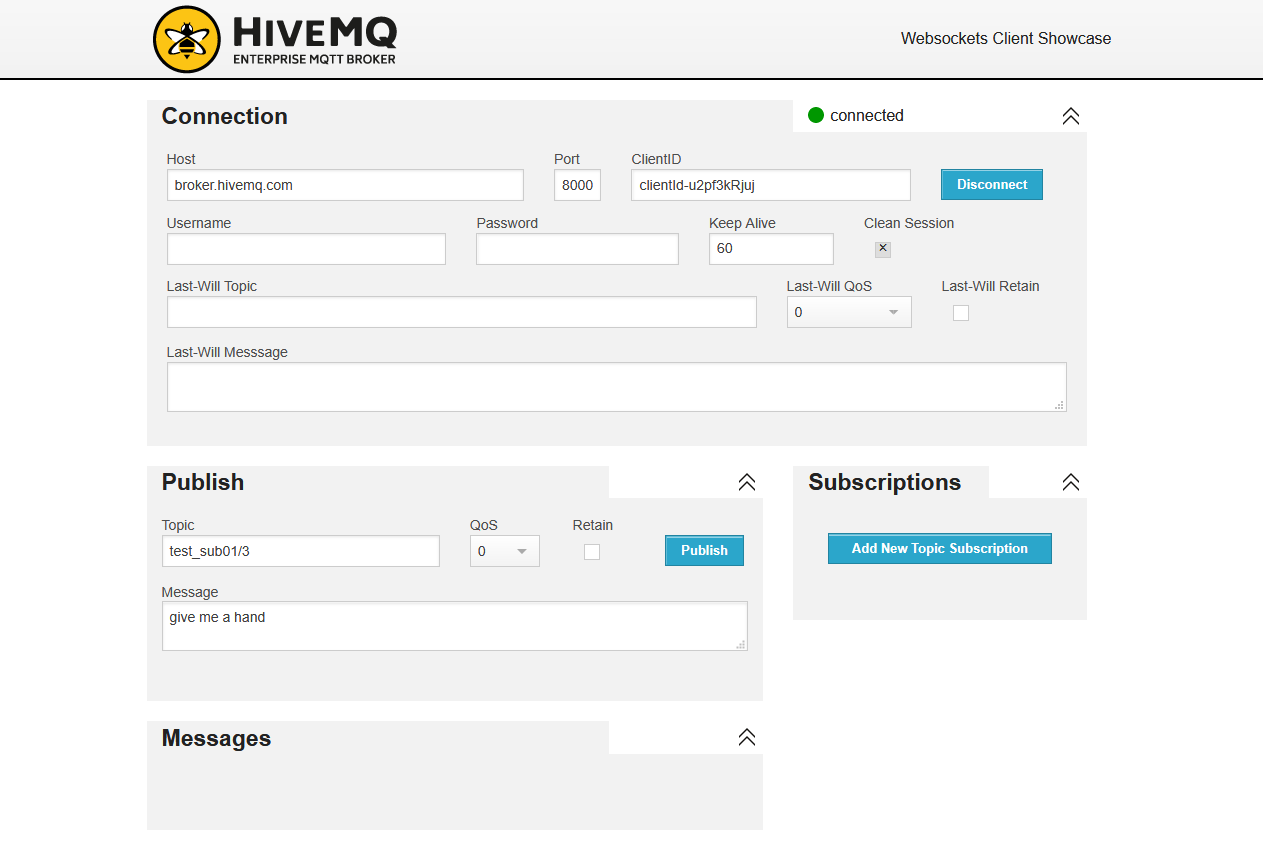
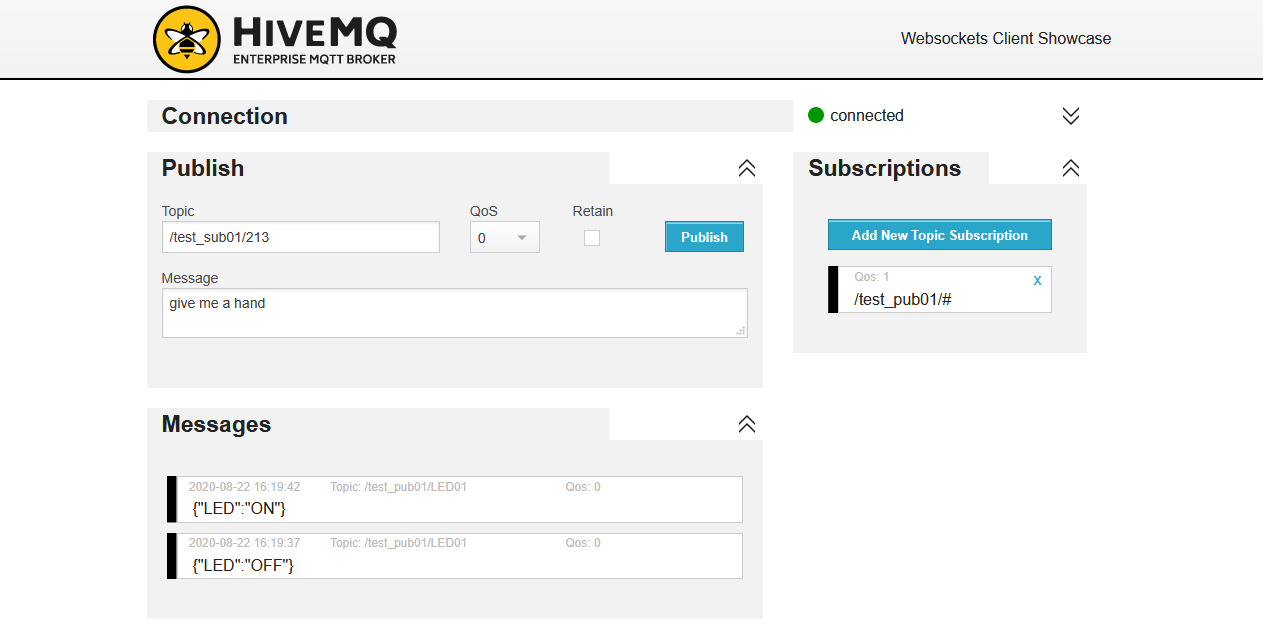
re-factory for rx/tx testing
re-factory code style
and modify comment to match code

diff --git a/src/utility_paho.js b/src/utility_paho.js
@@ -1,16 +1,16 @@
-var passWord = "";
-var username = "";
-var hostname = "broker.hivemq.com";  //HiveMQ
-var port = "8000";    //使用WebSocket協議的介面地址
-var clientId = makeid();
-var sub_topic = "test_sub01/#";
-var pub_topic = "test_pub01";
+const passWord = "";
+const username = "";
+const hostname = "broker.hivemq.com";  //HiveMQ
+const port = "8000";    //使用WebSocket協議的介面地址
+const clientId = makeId(10);
+const sub_topic = "/test_sub01/#";
+const pub_topic = "/test_pub01/LED01";
 
 var connected = false;
 
 var client = new Paho.Client(hostname, Number(port), clientId);
 
-logMessage("INFO", "Connecting to Server: [Host: ", hostname, ", Port: ", port, ", Path: ", client.path, ", ID: ", clientId, "]");
+logMessage("INFO", "Connecting to Server: [Host: ", hostname, ", Port: ", port, ", ID: ", clientId, "]");
 
 // set callback handlers
 client.onConnectionLost = onConnectionLost;
@@ -26,7 +26,7 @@ var options = {
     //reconnect: true,
     onSuccess: onConnect,
     onFailure: onFail,
-    mqttVersion: 4
+    mqttVersion: 4  // 3 for MQTT v3.1, 4 for MQTT 3.1.1
 };
 
 options.userName = username;
@@ -82,7 +82,7 @@ function onMessageArrived(message) {
 
 // called when the client connects
 function onConnect(context) {
-    // Once a connection has been made, make a subscription and send a message.
+    // Once a connection has been made, make a subscription.
     var connectionString = context.invocationContext.host + ":" + context.invocationContext.port;
     logMessage("INFO", "Connection Success ", "[URI: ", connectionString, ", ID: ", context.invocationContext.clientId, "]");
 
@@ -92,7 +92,7 @@ function onConnect(context) {
 
 
 function onConnected(reconnect, uri) {
-    // Once a connection has been made, make a subscription and send a message.
+    // Once a connection has been made
     logMessage("INFO", "Client Has now connected: [Reconnected: ", reconnect, ", URI: ", uri, "]");
     connected = true;
 }
@@ -103,12 +103,12 @@ function onFail(context) {
     connected = false;
 }
 
-function makeid() {
+function makeId(lenId) {
     // generation random connection ID;
     var text = "";
     var possible = "ABCDEFGHIJKLMNOPQRSTUVWXYZabcdefghijklmnopqrstuvwxyz0123456789";
 
-    for (var i = 0; i < 16; i++)
+    for (var i = 0; i < lenId; i++)
         text += possible.charAt(Math.floor(Math.random() * possible.length));
 
     return text;
